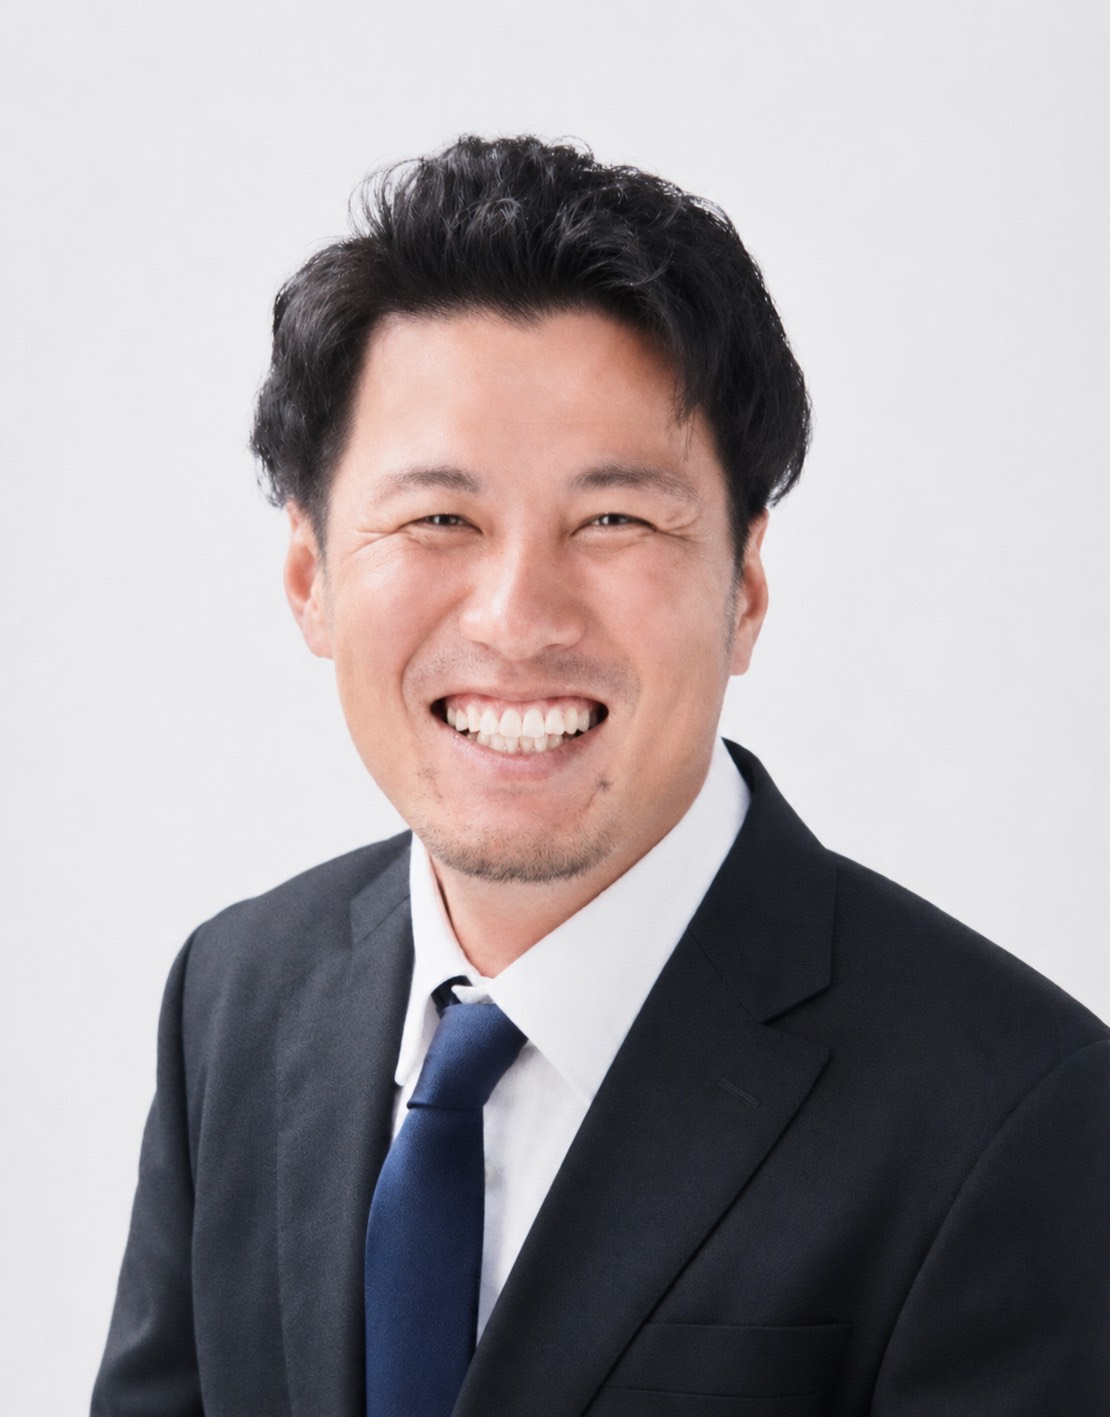
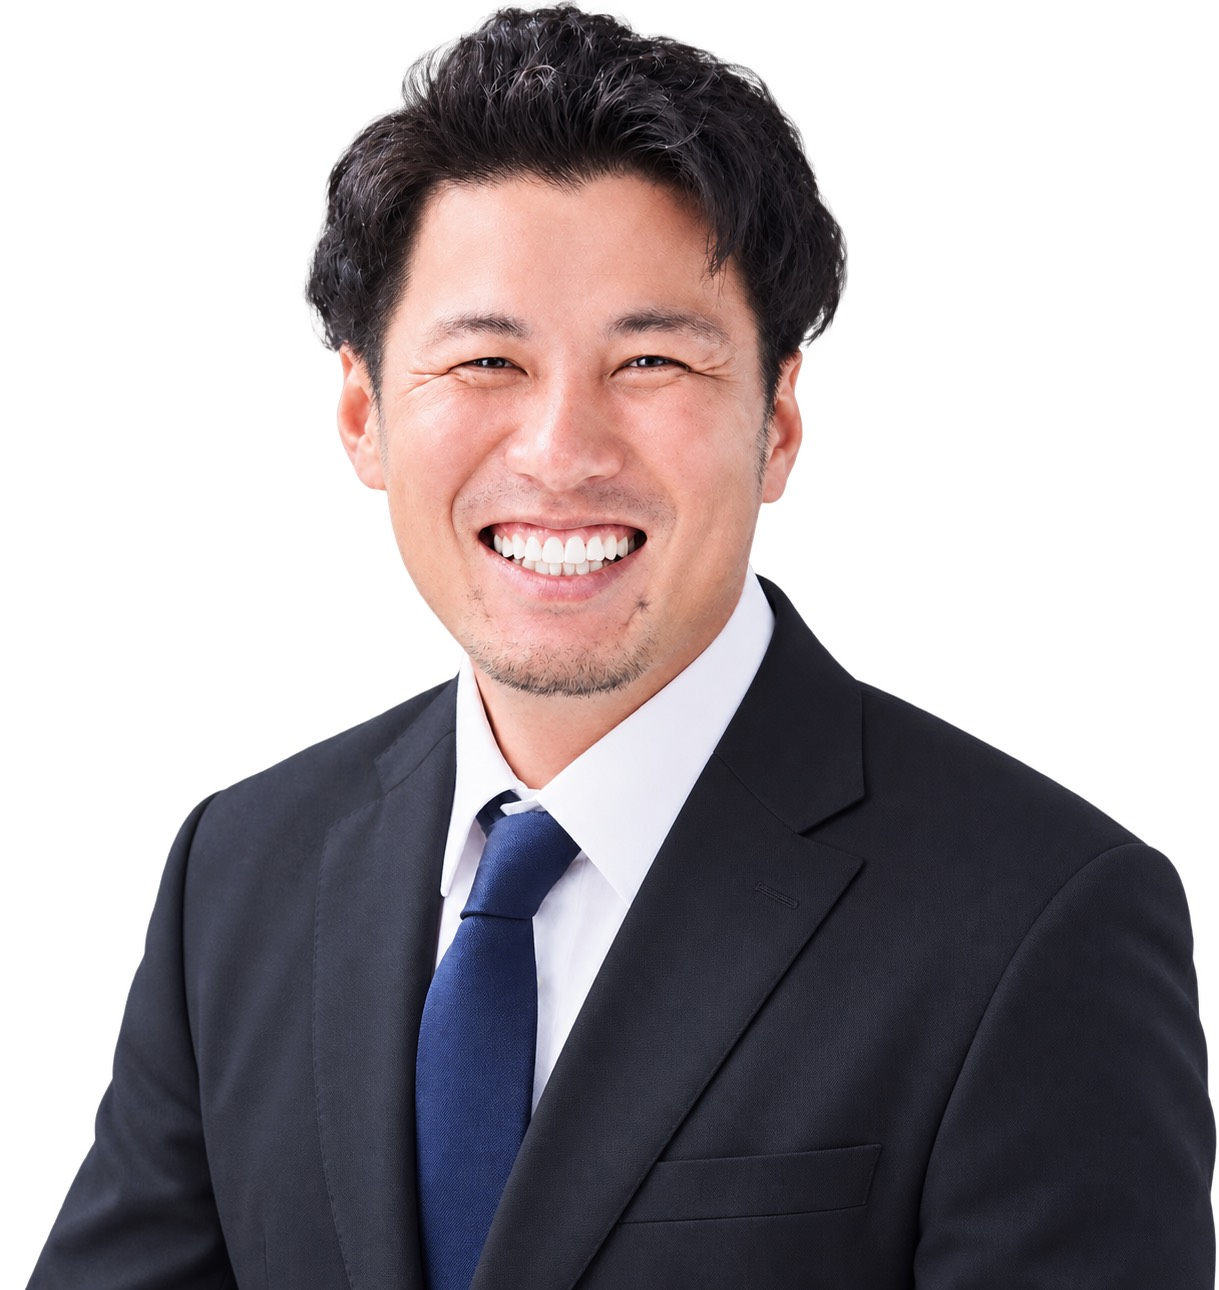
example3を削除し施工事例を8枚に修正
Claude-Session: https://claude.ai/code/session_01LkC6AnjHLgbJtfLrw4tJaf

diff --git a/拓乃 コーポレートサイト.dc.html b/拓乃 コーポレートサイト.dc.html
@@ -1668,54 +1668,47 @@
               </a>
               <a
                 class="work-thumb"
-                href="#pic-3"
-                aria-label="施工事例の写真 3 を拡大"
-              >
-                <img src="assets/example3.jpg" alt="" loading="lazy" />
-              </a>
-              <a
-                class="work-thumb"
                 href="#pic-4"
-                aria-label="施工事例の写真 4 を拡大"
+                aria-label="施工事例の写真 3 を拡大"
               >
                 <img src="assets/example4.jpg" alt="" loading="lazy" />
               </a>
               <a
                 class="work-thumb"
                 href="#pic-5"
-                aria-label="施工事例の写真 5 を拡大"
+                aria-label="施工事例の写真 4 を拡大"
               >
                 <img src="assets/example5.jpg" alt="" loading="lazy" />
               </a>
               <a
                 class="work-thumb"
                 href="#pic-6"
-                aria-label="施工事例の写真 6 を拡大"
+                aria-label="施工事例の写真 5 を拡大"
               >
                 <img src="assets/example6.jpg" alt="" loading="lazy" />
               </a>
               <a
                 class="work-thumb"
                 href="#pic-7"
-                aria-label="施工事例の写真 7 を拡大"
+                aria-label="施工事例の写真 6 を拡大"
               >
                 <img src="assets/example7.jpg" alt="" loading="lazy" />
               </a>
               <a
                 class="work-thumb"
                 href="#pic-8"
-                aria-label="施工事例の写真 8 を拡大"
+                aria-label="施工事例の写真 7 を拡大"
               >
                 <img src="assets/example8.jpg" alt="" loading="lazy" />
               </a>
               <a
                 class="work-thumb"
                 href="#pic-9"
-                aria-label="施工事例の写真 9 を拡大"
+                aria-label="施工事例の写真 8 を拡大"
               >
                 <img src="assets/example9.jpg" alt="" loading="lazy" />
               </a>
-            </div>
+              </div>
             <label for="worksToggle" class="works-more">
               <span class="works-more-open"
                 >もっと見る<i class="chev"></i
@@ -2565,29 +2558,17 @@
       <a class="lb-btn lb-close" href="#works" aria-label="閉じる">✕</a>
       <a class="lb-btn lb-prev" href="#pic-1" aria-label="前の写真">‹</a>
       <img src="assets/example2.jpg" alt="" />
-      <a class="lb-btn lb-next" href="#pic-3" aria-label="次の写真">›</a>
-    </div>
-    <div
-      class="lightbox"
-      id="pic-3"
-      role="dialog"
-      aria-label="施工事例の写真 3"
-    >
-      <a class="lb-backdrop" href="#works" aria-label="閉じる"></a>
-      <a class="lb-btn lb-close" href="#works" aria-label="閉じる">✕</a>
-      <a class="lb-btn lb-prev" href="#pic-2" aria-label="前の写真">‹</a>
-      <img src="assets/example3.jpg" alt="" />
       <a class="lb-btn lb-next" href="#pic-4" aria-label="次の写真">›</a>
     </div>
     <div
       class="lightbox"
       id="pic-4"
       role="dialog"
-      aria-label="施工事例の写真 4"
+      aria-label="施工事例の写真 3"
     >
       <a class="lb-backdrop" href="#works" aria-label="閉じる"></a>
       <a class="lb-btn lb-close" href="#works" aria-label="閉じる">✕</a>
-      <a class="lb-btn lb-prev" href="#pic-3" aria-label="前の写真">‹</a>
+      <a class="lb-btn lb-prev" href="#pic-2" aria-label="前の写真">‹</a>
       <img src="assets/example4.jpg" alt="" />
       <a class="lb-btn lb-next" href="#pic-5" aria-label="次の写真">›</a>
     </div>
@@ -2595,7 +2576,7 @@
       class="lightbox"
       id="pic-5"
       role="dialog"
-      aria-label="施工事例の写真 5"
+      aria-label="施工事例の写真 4"
     >
       <a class="lb-backdrop" href="#works" aria-label="閉じる"></a>
       <a class="lb-btn lb-close" href="#works" aria-label="閉じる">✕</a>
@@ -2607,7 +2588,7 @@
       class="lightbox"
       id="pic-6"
       role="dialog"
-      aria-label="施工事例の写真 6"
+      aria-label="施工事例の写真 5"
     >
       <a class="lb-backdrop" href="#works" aria-label="閉じる"></a>
       <a class="lb-btn lb-close" href="#works" aria-label="閉じる">✕</a>
@@ -2619,7 +2600,7 @@
       class="lightbox"
       id="pic-7"
       role="dialog"
-      aria-label="施工事例の写真 7"
+      aria-label="施工事例の写真 6"
     >
       <a class="lb-backdrop" href="#works" aria-label="閉じる"></a>
       <a class="lb-btn lb-close" href="#works" aria-label="閉じる">✕</a>
@@ -2631,7 +2612,7 @@
       class="lightbox"
       id="pic-8"
       role="dialog"
-      aria-label="施工事例の写真 8"
+      aria-label="施工事例の写真 7"
     >
       <a class="lb-backdrop" href="#works" aria-label="閉じる"></a>
       <a class="lb-btn lb-close" href="#works" aria-label="閉じる">✕</a>
@@ -2643,7 +2624,7 @@
       class="lightbox"
       id="pic-9"
       role="dialog"
-      aria-label="施工事例の写真 9"
+      aria-label="施工事例の写真 8"
     >
       <a class="lb-backdrop" href="#works" aria-label="閉じる"></a>
       <a class="lb-btn lb-close" href="#works" aria-label="閉じる">✕</a>
